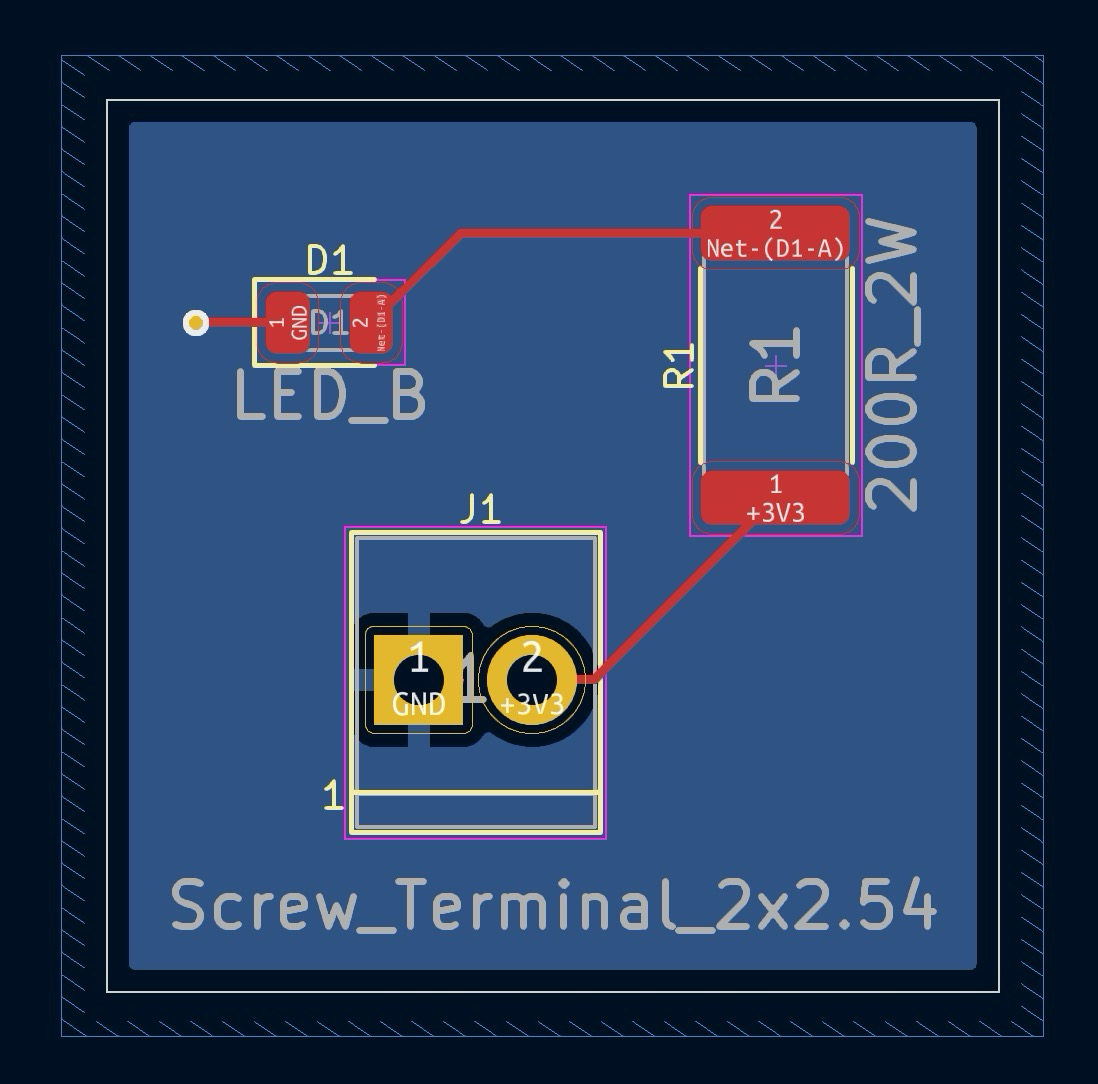
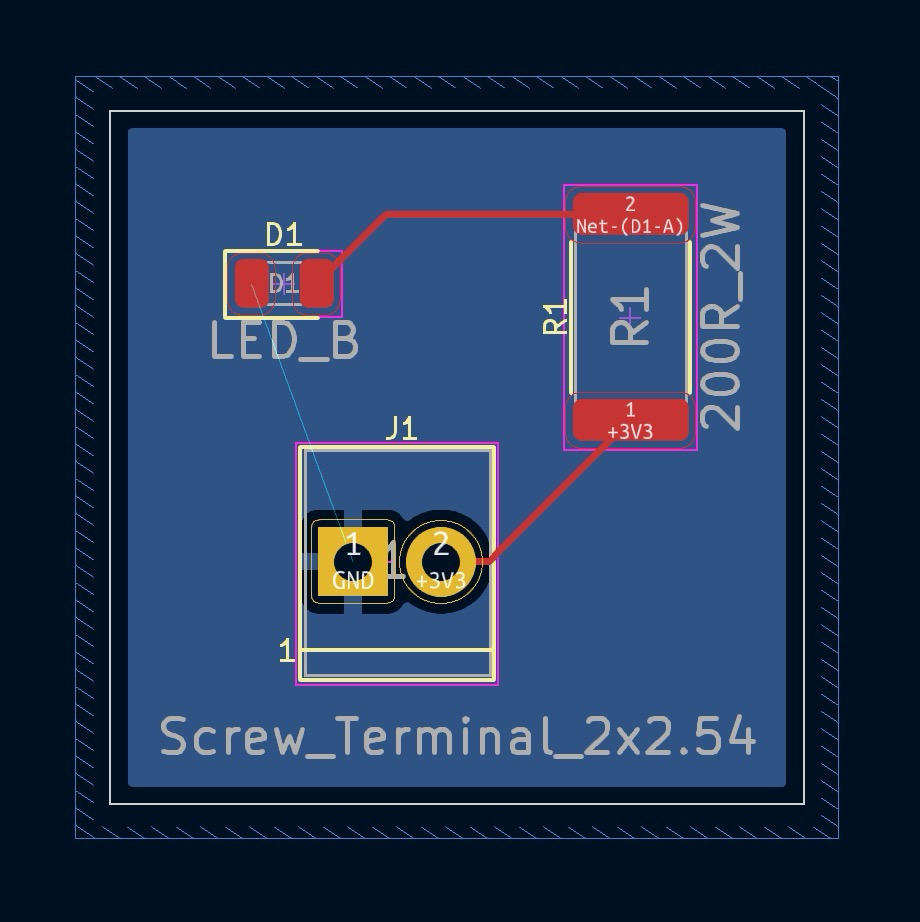
more

diff --git a/Onboarding.md b/Onboarding.md
@@ -240,15 +240,53 @@ Let's arrange the components onto the ground plane
 - ensure the light blue lines do not cross over each other, follow the example in figure 22
 
 - Now let's add some wires that will connect the components together, these wire are called **traces**
-
+- on the righthand side tool bar click on the Route Tracks icon 
 
 <div align="center">
 <img src="images/RouteTracks.png" width="300">
 <p><i>Figure 23: Components placed on the PCB </i></p>
 </div>
 
--  
+> [!TIP] 
+> For placing the traces
+> - click once to start the trace
+> - click on empty space to turn the trace
+> - click on the next component to end the trace
 
+- connect all the components together like in figure 24
+
+<div align="center">
+<img src="images/WithTraces.png" width="500">
+<p><i>Figure 24: Traces Connecting the Components  </i></p>
+</div>
+
+- Press **B** on your keyboard, this allows for the ground plane to reset, if you look closely at the screw terminal you can the ground plane wrapping around the pads, but for the ground pad the ground plane extends itself such that ground is connected to ground
+
+- You might be wondering why we left the ground unnconnected, I mainly want to show you the method that usually used which is with a **via**
+- start a new trace on the LED's ground pad and click again the empty space to the left
+
+<div align="center">
+<img src="images/Via1.png" width="500">
+<p><i>Figure 25: Connecting to the ground plane using a via</i></p>
+</div>
+
+- On the righthand side toolbar find the **Add Via** icon 
+- click on the side of the trace not connected to any component
+
+<div align="center">
+<img src="images/Via2.png" width="500">
+<p><i>Figure 26: Placing a via</i></p>
+</div>
+
+- now the ground pad of the LED is connect to the ground plane
+- A via can be thought of as a hole, that allows for a trace (which in on the top copper layer) to be connected to the bottom copper layer
+- Press **B** on
+
+
+> [!TIP] 
+> Pressing B is common practice after making changes to a PCB
+
+We are 
 
 
 
